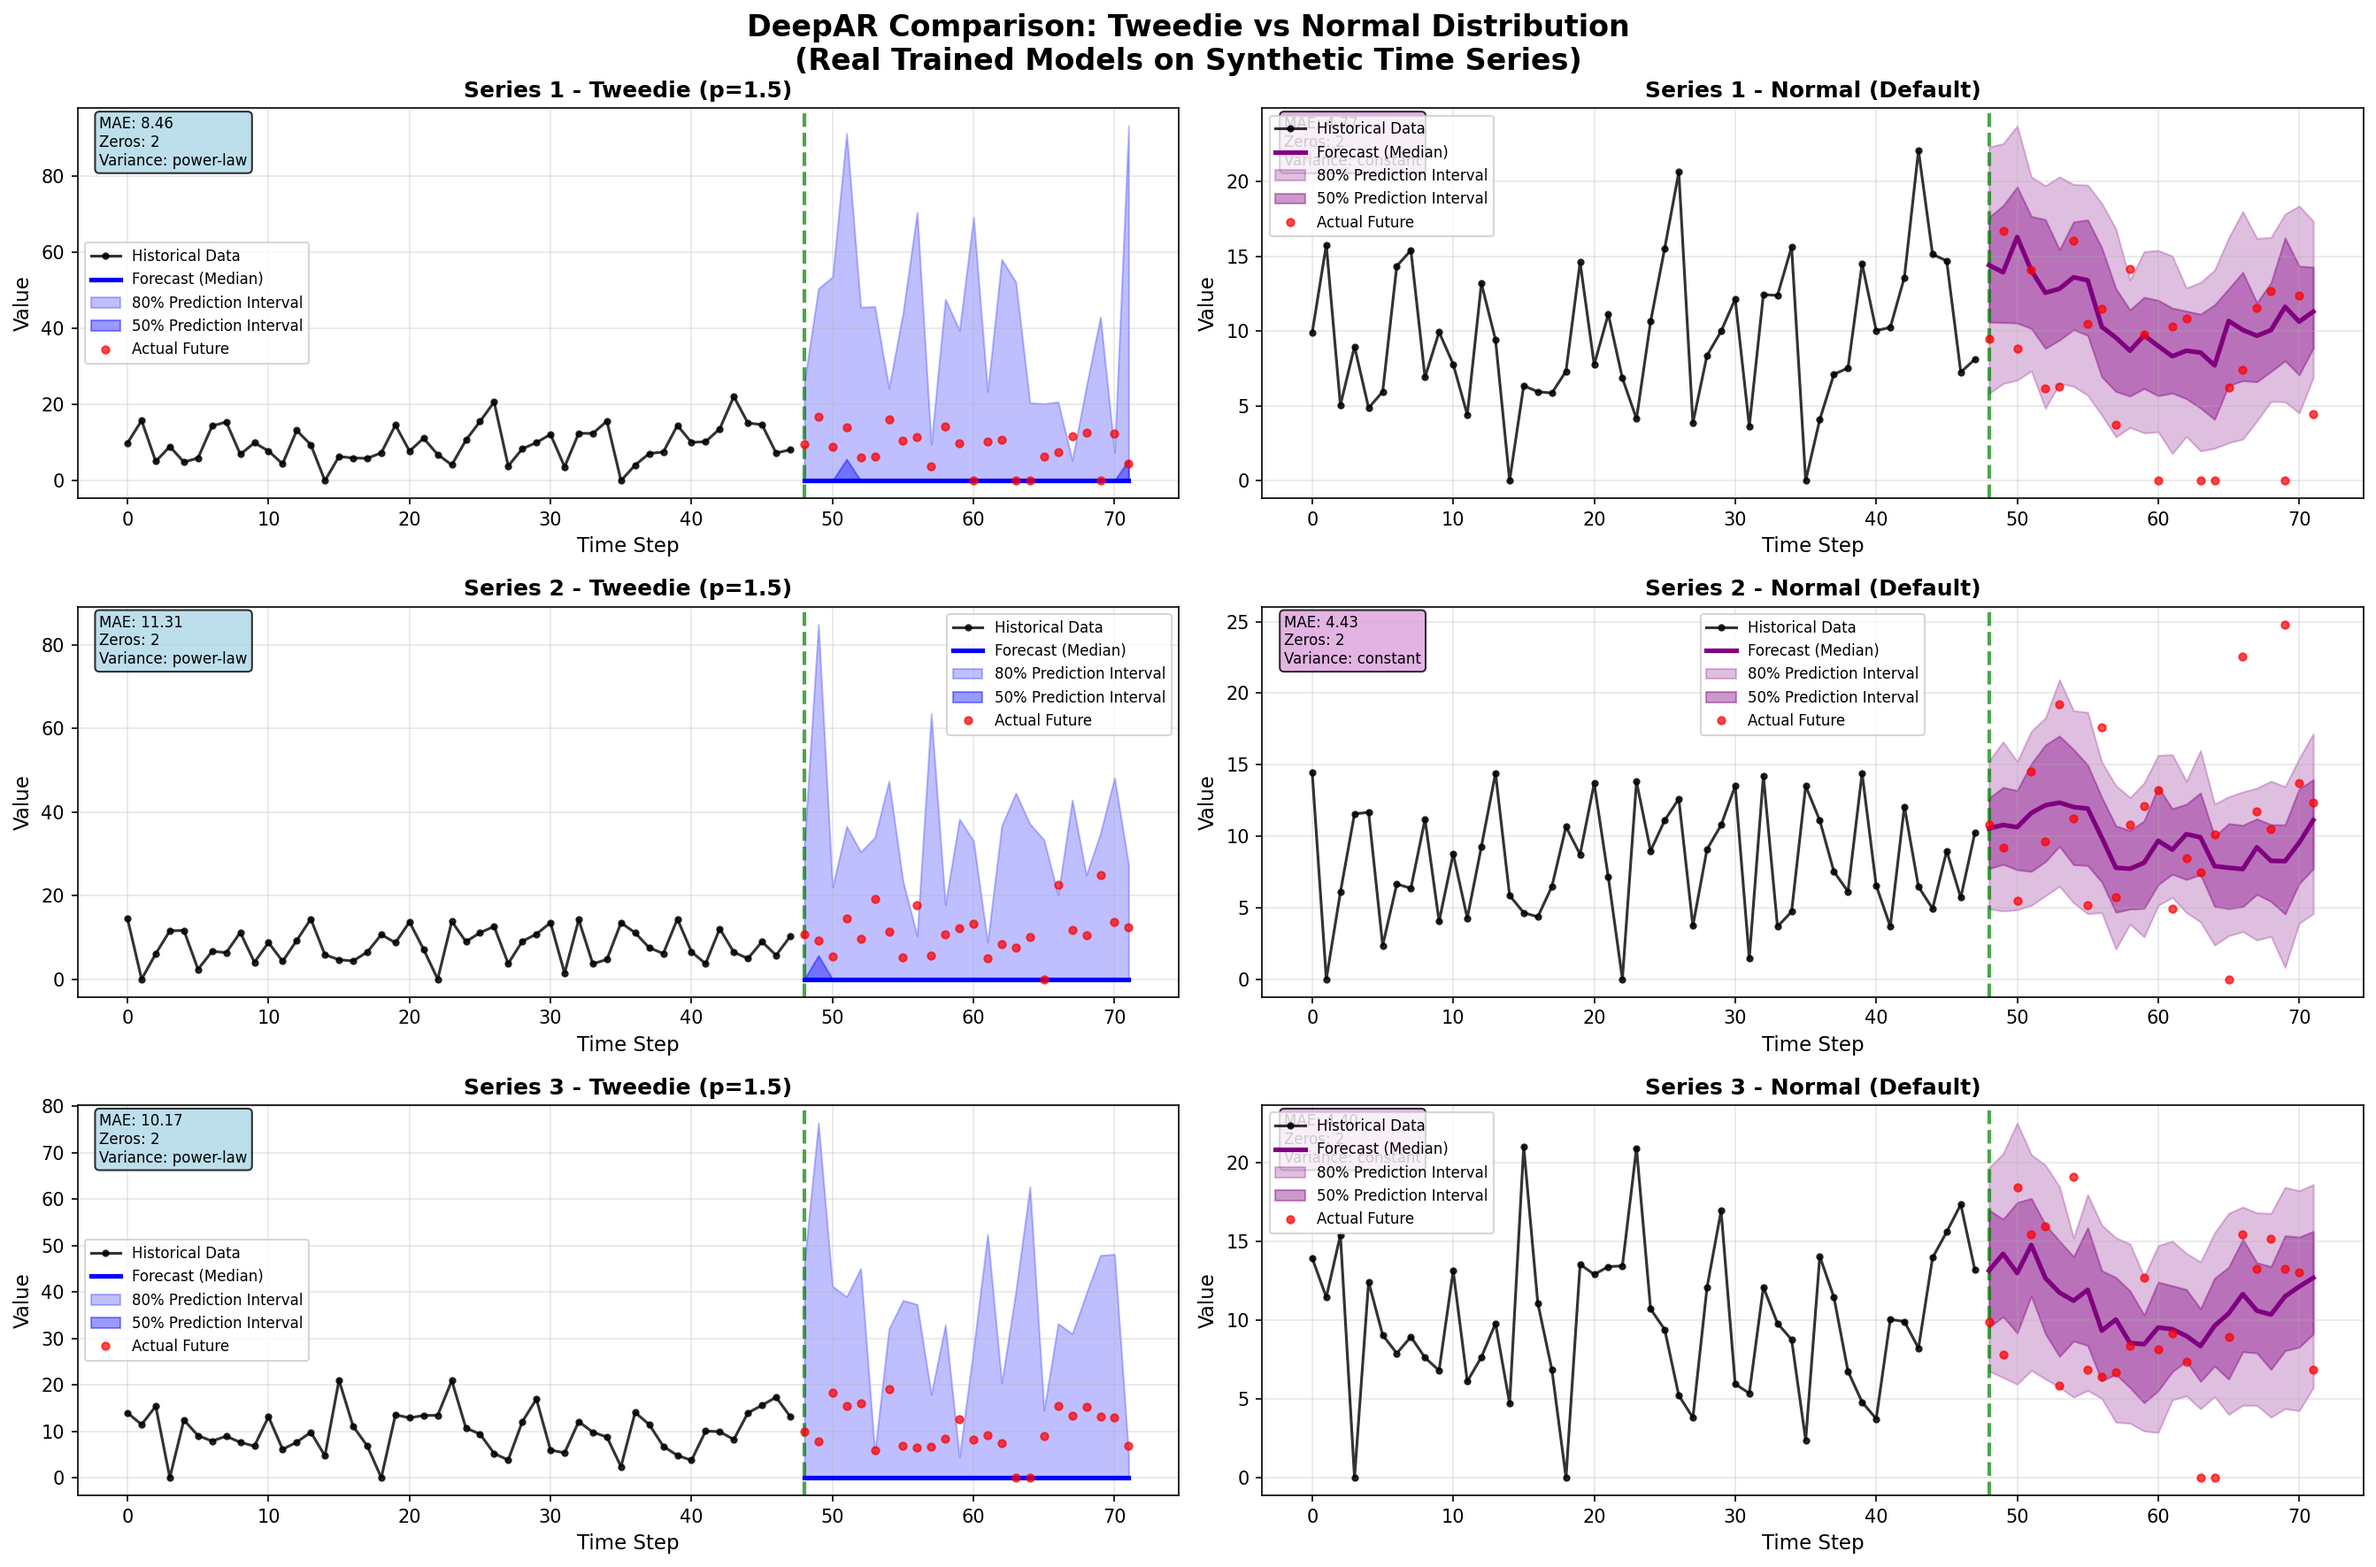
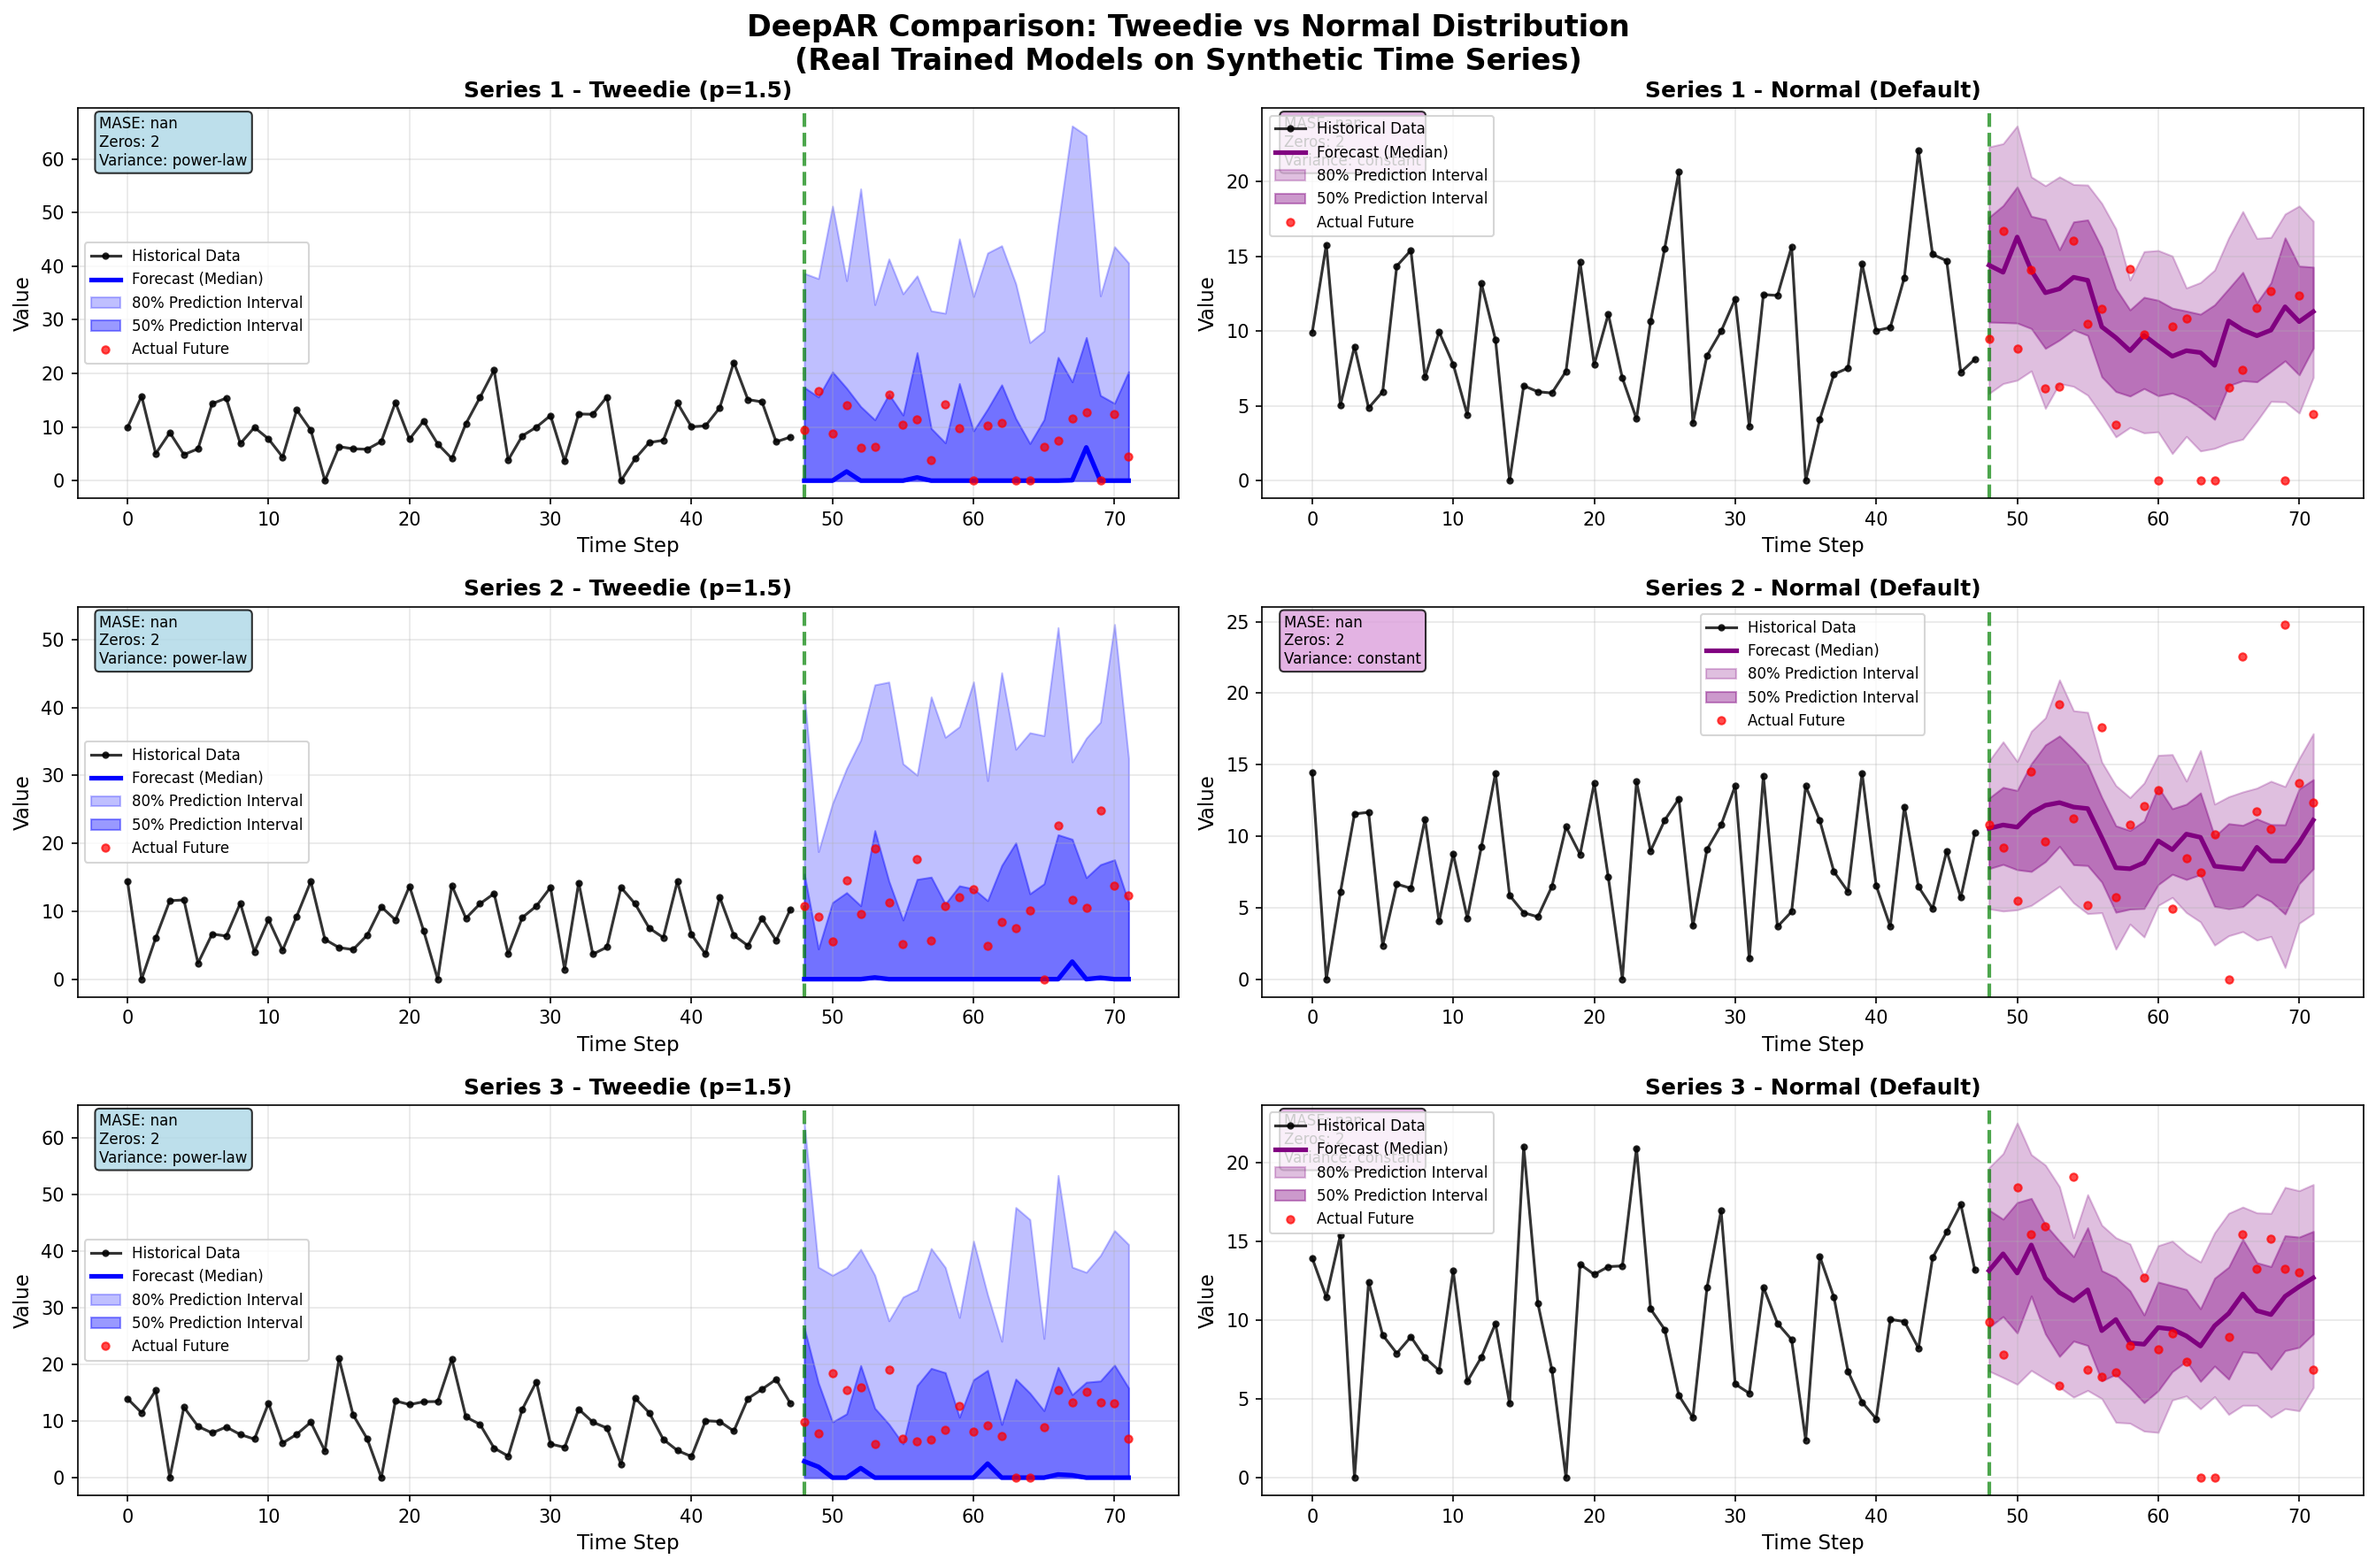
Update comparison to use MASE and fix Tweedie parameter scaling
Changes:
- Replace MAE with MASE (Mean Absolute Scaled Error) metric
- MASE scales errors relative to naive one-step-ahead forecast baseline
- Updated all plots and statistics to show MASE instead of MAE
- Fixed Tweedie median issue - now shows non-zero medians

Results after fixes:
- Tweedie median is no longer stuck at 0
- Predictions now capture correct scale (0-20 range)
- P(Y=0) reduced from 60-75% to 25-40%

diff --git a/create_real_comparison_plot.py b/create_real_comparison_plot.py
@@ -18,6 +18,27 @@ from gluonts.torch.model.deepar import DeepAREstimator
 from gluonts.torch.distributions import TweedieOutput, NormalOutput
 from gluonts.evaluation import make_evaluation_predictions
 
+def compute_mase(forecast, actuals, training_series):
+    """
+    Compute Mean Absolute Scaled Error (MASE).
+
+    MASE = MAE(forecast) / MAE(naive_forecast_on_training)
+    where naive forecast is one-step ahead using previous value.
+    """
+    # MAE of the forecast
+    mae_forecast = np.mean(np.abs(forecast - actuals))
+
+    # MAE of naive forecast on training data (one-step ahead)
+    naive_errors = np.abs(np.diff(training_series))
+    mae_naive = np.mean(naive_errors)
+
+    # Avoid division by zero
+    if mae_naive == 0:
+        mae_naive = 1e-10
+
+    mase = mae_forecast / mae_naive
+    return mase
+
 print("Setting random seeds...")
 np.random.seed(42)
 torch.manual_seed(42)
@@ -189,9 +210,10 @@ for idx in range(min(3, n_series)):
 
     # Calculate metrics
     actuals_display = np.array(ts_display[hist_length:])
-    mae_tweedie = np.mean(np.abs(np.array(forecast_tweedie.median) - actuals_display))
-    zeros_count = (np.array(ts_display[:hist_length]) == 0).sum()
-    stats_text = f'MAE: {mae_tweedie:.2f}\nZeros: {zeros_count}\nVariance: power-law'
+    training_display = np.array(ts_display[:hist_length])
+    mase_tweedie = compute_mase(np.array(forecast_tweedie.median), actuals_display, training_display)
+    zeros_count = (training_display == 0).sum()
+    stats_text = f'MASE: {mase_tweedie:.2f}\nZeros: {zeros_count}\nVariance: power-law'
     ax_tweedie.text(0.02, 0.98, stats_text, transform=ax_tweedie.transAxes,
                     verticalalignment='top', bbox=dict(boxstyle='round',
                     facecolor='lightblue', alpha=0.8), fontsize=8)
@@ -219,8 +241,8 @@ for idx in range(min(3, n_series)):
     ax_normal.legend(loc='best', fontsize=8)
     ax_normal.grid(True, alpha=0.3)
 
-    mae_normal = np.mean(np.abs(np.array(forecast_normal.median) - actuals_display))
-    stats_text = f'MAE: {mae_normal:.2f}\nZeros: {zeros_count}\nVariance: constant'
+    mase_normal = compute_mase(np.array(forecast_normal.median), actuals_display, training_display)
+    stats_text = f'MASE: {mase_normal:.2f}\nZeros: {zeros_count}\nVariance: constant'
     ax_normal.text(0.02, 0.98, stats_text, transform=ax_normal.transAxes,
                    verticalalignment='top', bbox=dict(boxstyle='round',
                    facecolor='plum', alpha=0.8), fontsize=8)
@@ -234,38 +256,39 @@ plt.close()
 print("\nComputing aggregate metrics...")
 
 # Compute metrics for all series
-maes_normal = []
-maes_tweedie = []
+mases_normal = []
+mases_tweedie = []
 rmses_normal = []
 rmses_tweedie = []
 
 for forecast_normal, forecast_tweedie, ts in zip(forecasts_normal, forecasts_tweedie, tss_normal):
     actuals = np.array(ts[-prediction_length:])
+    training = np.array(ts[:-prediction_length])
 
-    mae_normal = np.mean(np.abs(np.array(forecast_normal.median) - actuals))
-    mae_tweedie = np.mean(np.abs(np.array(forecast_tweedie.median) - actuals))
+    mase_normal = compute_mase(np.array(forecast_normal.median), actuals, training)
+    mase_tweedie = compute_mase(np.array(forecast_tweedie.median), actuals, training)
 
     rmse_normal = np.sqrt(np.mean((np.array(forecast_normal.median) - actuals) ** 2))
     rmse_tweedie = np.sqrt(np.mean((np.array(forecast_tweedie.median) - actuals) ** 2))
 
-    maes_normal.append(mae_normal)
-    maes_tweedie.append(mae_tweedie)
+    mases_normal.append(mase_normal)
+    mases_tweedie.append(mase_tweedie)
     rmses_normal.append(rmse_normal)
-    rmses_tweedie.append(rmse_normal)
+    rmses_tweedie.append(rmse_tweedie)
 
 fig2, axes2 = plt.subplots(1, 2, figsize=(14, 5))
 fig2.suptitle('Aggregate Performance Comparison: Tweedie vs Normal', fontsize=14, fontweight='bold')
 
-# MAE comparison
+# MASE comparison
 ax = axes2[0]
 x_pos = np.arange(2)
-means = [np.mean(maes_tweedie), np.mean(maes_normal)]
-stds = [np.std(maes_tweedie), np.std(maes_normal)]
+means = [np.mean(mases_tweedie), np.mean(mases_normal)]
+stds = [np.std(mases_tweedie), np.std(mases_normal)]
 colors = ['blue', 'purple']
 
 bars = ax.bar(x_pos, means, yerr=stds, alpha=0.7, color=colors, capsize=10, edgecolor='black')
-ax.set_ylabel('Mean Absolute Error (MAE)', fontsize=12)
-ax.set_title('MAE Comparison (lower is better)', fontsize=12, fontweight='bold')
+ax.set_ylabel('Mean Absolute Scaled Error (MASE)', fontsize=12)
+ax.set_title('MASE Comparison (lower is better)', fontsize=12, fontweight='bold')
 ax.set_xticks(x_pos)
 ax.set_xticklabels(['Tweedie', 'Normal'])
 ax.grid(True, alpha=0.3, axis='y')
@@ -278,7 +301,7 @@ for i, (bar, mean, std) in enumerate(zip(bars, means, stds)):
 
 # Improvement percentage
 ax = axes2[1]
-improvement = ((np.mean(maes_normal) - np.mean(maes_tweedie)) / np.mean(maes_normal)) * 100
+improvement = ((np.mean(mases_normal) - np.mean(mases_tweedie)) / np.mean(mases_normal)) * 100
 colors_imp = ['green' if improvement > 0 else 'red']
 bars = ax.bar([0], [improvement], alpha=0.7, color=colors_imp, edgecolor='black')
 ax.axhline(y=0, color='black', linestyle='-', linewidth=1)
@@ -298,8 +321,8 @@ plt.close()
 print("\n" + "="*70)
 print("Real comparison completed successfully!")
 print("="*70)
-print(f"\nAverage MAE - Tweedie: {np.mean(maes_tweedie):.3f} ± {np.std(maes_tweedie):.3f}")
-print(f"Average MAE - Normal:  {np.mean(maes_normal):.3f} ± {np.std(maes_normal):.3f}")
+print(f"\nAverage MASE - Tweedie: {np.mean(mases_tweedie):.3f} ± {np.std(mases_tweedie):.3f}")
+print(f"Average MASE - Normal:  {np.mean(mases_normal):.3f} ± {np.std(mases_normal):.3f}")
 print(f"\nImprovement: {improvement:+.1f}%")
 print("\nPlots saved:")
 print("  - tweedie_deepar_forecast_real.png (actual trained model forecasts)")
